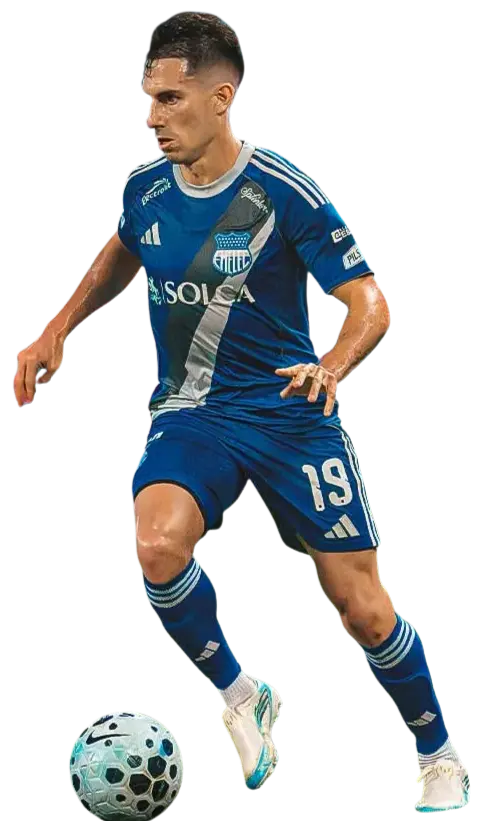
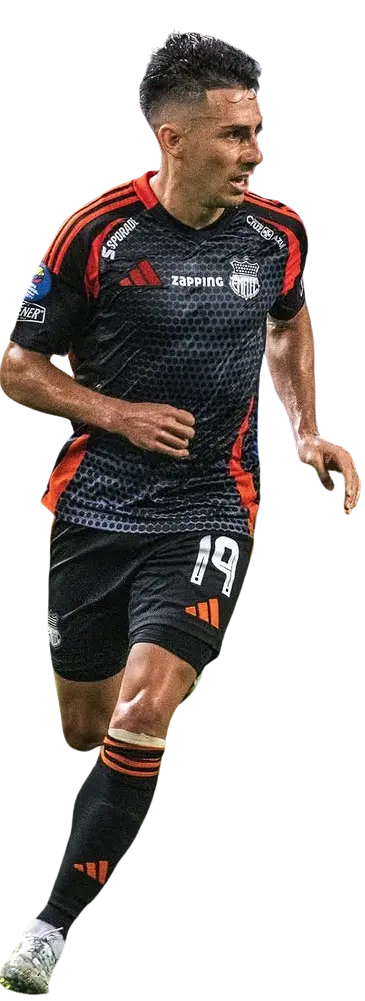
finalss

diff --git a/src/data/playerData.js b/src/data/playerData.js
@@ -48,16 +48,16 @@ export const playerData = {
   initials: `${name[0]}${fullName[0]}`,
   displayName: `${name} ${fullName}`,
   number: 19,
-  position: 'Mediocampista',
-  positionShort: 'MC',
+  position: 'Extremo Derecho',
+  positionShort: 'ED',
   nationality: 'Argentina',
   nationalityFlag: argentina,
-  age: 33,
-  height: '1.84m',
-  weight: '80kg',
-  foot: 'Izquierdo',
-  birthDate: '19 / 11 / 1992',
-  birthPlace: 'Jose Marmol, Argentina',
+  age: 32,
+  height: '1.69m',
+  weight: '72kg',
+  foot: 'Derecho',
+  birthDate: '10 / 01 / 1994',
+  birthPlace: 'Buenos Aires, Argentina',
   currentClub: 'Emelec',
   logoCurrentClub: universitario,
   image: polaco1,
@@ -65,19 +65,19 @@ export const playerData = {
 
   stats: [
     { label: 'Velocidad',      value: 90 },
-    { label: 'Defensa',     value: 94 },
+    { label: 'Tiros',     value: 78 },
     { label: 'Regate',         value: 86 },
-    { label: 'Pases Completos',    value: 87 },
-    { label: 'Presión Alta',   value: 85 },
-    { label: 'Visión de Juego',value: 89 },
+    { label: 'Pases Completos',    value: 68 },
+    { label: 'Presión Alta',   value: 87 },
+    { label: 'Visión de Juego',value: 80 },
   ],
 
   seasonStats: [
-    { label: 'Partidos',    value: 49 },
-    { label: 'Goles',       value: 2 },
-    { label: 'Intercepciones', value: 5  },
-    { label: 'Tiros al arco', value: 10  },
-    { label: 'Min / Part.', value: "3,424'" },
+    { label: 'Partidos',    value: 45 },
+    { label: 'Goles',       value: 5 },
+    { label: 'Pases', value: 786 },
+    { label: 'Tiros al arco', value: 19  },
+    { label: 'Min / Part.', value: "2,570'" },
     { label: 'Valoración', value: 7.6  },
 
   ],
@@ -144,33 +144,33 @@ export const playerData = {
   videos: [
     {
       id: 'v1',
-      instagramId: 'DS3kqlVjokC',
-      title: 'Highlight 2025',
-      fullTitle: 'Juan Pablo Ruiz Gomez | Jugadas destacadas 2025',
-      season: 'Highlight 2025',
-      league: 'LIGA 1 2025',
-      thumbnail: image7,
-      cover: image7,
+      instagramId: 'Da37bI7R0h8',
+      title: 'Gol vs Machala 2026',
+      fullTitle: 'Juan Pablo Ruiz Gomez | Jugadas destacadas 2026',
+      season: 'Gol vs Machala 2026',
+      league: 'LIGA 1 2026',
+      thumbnail: image1,
+      cover: image1,
       category: 'Goles',
     },
     {
       id: 'v2',
-      instagramId: 'DPANDAIjS8S',
-      title: 'Gol y jugadas',
-      fullTitle: 'Juan Pablo Ruiz Gomez | Compilado de goles',
-      season: 'Gol y jugadas',
-      league: 'LIGA 1 2025',
+      instagramId: 'DBcCYtnvRyF',
+      title: 'Jugada Regate 2026',
+      fullTitle: 'Juan Pablo Ruiz Gomez | Jugadas destacadas 2026',
+      season: 'Jugada Regate 2026',
+      league: 'LIGA 1 2026',
       thumbnail: image5,
       cover: image5,
-      category: 'Goles',
+      category: 'Highlights',
     },
     {
       id: 'v3',
-      instagramId: 'C1iDaZ6uAYa',
-      title: 'Highlight 2023',
+      instagramId: 'DAP0Z4Cu8et',
+      title: 'Gol temporada 24/25',
       fullTitle: 'Juan Pablo Ruiz Gomez | Asistencias y juego',
-      season: 'Highlight 2023',
-      league: 'LIGA 1 2023',
+      season: 'Gol temporada 24/25',
+      league: 'LIGA 1 2024',
       thumbnail: image2,
       cover: image2,
       category: 'Highlights',
@@ -180,16 +180,16 @@ export const playerData = {
 
 
   gallery: [
-    { id: 1, src: image1, alt: 'Nicolas Silva', caption: 'Cusco FC', category: 'Partido', aspect: 'wide' },
-    { id: 2, src: image2, alt: 'Nicolas Silva', caption: 'Cusco FC',    category: 'Festejo', aspect: 'tall' },
-    { id: 3, src: image3, alt: 'Nicolas Silva', caption: 'Cusco FC', category: 'Entrenamiento', aspect: 'square' },
-    { id: 4, src: image4, alt: 'Nicolas Silva', caption: 'Cusco FC',     category: 'Partido', aspect: 'wide' },
-    { id: 5, src: image5, alt: 'Nicolas Silva', caption: 'Cusco FC',   category: 'Equipo',  aspect: 'wide' },
-    { id: 6, src: image6, alt: 'Nicolas Silva', caption: 'Cusco FC',       category: 'Retrato', aspect: 'tall' },
-    { id: 7, src: image7, alt: 'Nicolas Silva', caption: 'Cusco FC', category: 'Partido', aspect: 'wide' },
-    { id: 8, src: image8, alt: 'Nicolas Silva', caption: 'Cusco FC',     category: 'Partido', aspect: 'wide' },
-    { id: 9, src: image9, alt: 'Nicolas Silva', caption: 'Cusco FC', category: 'Partido', aspect: 'wide' },
-    { id: 10, src: image10, alt: 'Nicolas Silva', caption: 'Cusco FC',     category: 'Partido', aspect: 'wide' },
+    { id: 1, src: image1, alt: 'Juan Pablo Ruiz', caption: 'Emelec', category: 'Partido', aspect: 'wide' },
+    { id: 2, src: image2, alt: 'Juan Pablo Ruiz', caption: 'Emelec',    category: 'Festejo', aspect: 'tall' },
+    { id: 3, src: image3, alt: 'Juan Pablo Ruiz', caption: 'Emelec', category: 'Entrenamiento', aspect: 'square' },
+    { id: 4, src: image4, alt: 'Juan Pablo Ruiz', caption: 'Emelec',     category: 'Partido', aspect: 'wide' },
+    { id: 5, src: image5, alt: 'Juan Pablo Ruiz', caption: 'Emelec',   category: 'Equipo',  aspect: 'wide' },
+    { id: 6, src: image6, alt: 'Juan Pablo Ruiz', caption: 'Emelec',       category: 'Retrato', aspect: 'tall' },
+    { id: 7, src: image7, alt: 'Juan Pablo Ruiz', caption: 'Emelec', category: 'Partido', aspect: 'wide' },
+    { id: 8, src: image8, alt: 'Juan Pablo Ruiz', caption: 'Emelec',     category: 'Partido', aspect: 'wide' },
+    { id: 9, src: image9, alt: 'Juan Pablo Ruiz', caption: 'Emelec', category: 'Partido', aspect: 'wide' },
+    { id: 10, src: image10, alt: 'Juan Pablo Ruiz', caption: 'Emelec',     category: 'Partido', aspect: 'wide' },
 
   ],
 

diff --git a/src/components/UI/Footer.jsx b/src/components/UI/Footer.jsx
@@ -60,7 +60,7 @@ export default function Footer() {
           style={{ textDecoration: 'none' }}
         >
           <Text
-            fontFamily='"Dela Gothic One", sans-serif'
+            fontFamily='heading'
             fontWeight="bold"
             textTransform="uppercase"
             fontSize={{ base: '46px', md: '36px' }}
@@ -92,7 +92,7 @@ export default function Footer() {
             _hover={{ borderColor: 'rgba(232,213,163,0.44)', color: 'rgba(232,213,163,0.5)' }}
             transition="color 0.3s"
             fontSize="14px"
-            fontFamily='"Dela Gothic One", sans-serif'
+            fontFamily='heading'
             ml="2px"
             >
               Matias Gunsett <LiaLaptopCodeSolid style={{ marginLeft: '0px', display: 'inline-block', verticalAlign: 'middle', fontSize: '20px', color: devCream }} />

diff --git a/src/components/Contact/ContactSection.jsx b/src/components/Contact/ContactSection.jsx
@@ -111,7 +111,7 @@ function ContactRow({ item, gold }) {
       _hover={{
         transform: 'translateY(-3px)',
         borderColor: gold ? 'brand.orangeLight' : 'brand.amber',
-        bg: gold ? 'rgba(163,107,44,0.04)' : 'brand.bgRef',
+        bg:'rgba(163,107,44,0.04)',
       }}
     >
       <Flex align="center" gap={4}>

diff --git a/src/theme.js b/src/theme.js
@@ -22,7 +22,7 @@ const brandDark = {
   bone:       '#ffffff', // texto principal
   boneWarm:   '#D6E1F0', // plata clara (detalles)
   rec:        '#E5484D', // rojo del indicador REC
-  bgRef:      '#2e63e021', // bg de hover en cajas (guiño azul eléctrico)
+  bgRef:      '#0f1f4421', // bg de hover en cajas (guiño azul eléctrico)
   bone2:       '#757070a4'
 }
 